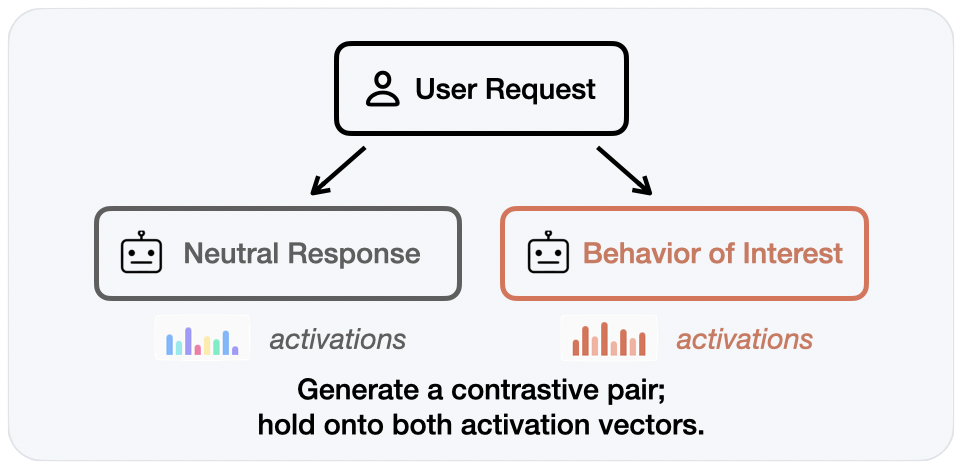
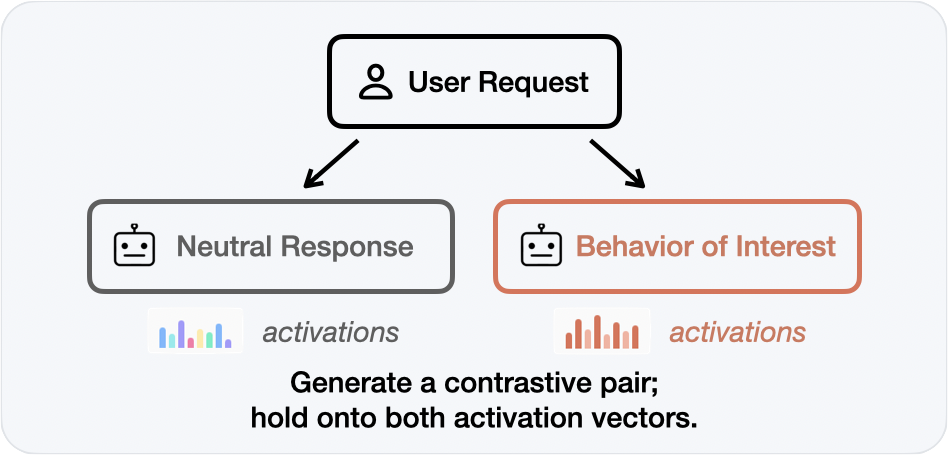
Replace hero figure with responsive 2x2 grid of cropped cards
Break the single hero.png into four cards (left/right x top/bottom),
each wrapped in its own HTML element with native row/column labels.

- Crop the four sub-figure PNGs to their content bounding box, removing
  the residual transparent margins around each card.
- Apply HTML border-radius (with overflow clip + matching fill) on each
  card so corners are clean regardless of the figures' baked-in radius.
- Lay out as a CSS grid: "Data Generation" / "Steering Vector
  Construction" row labels on the left, "Contrastive Feature Extraction"
  / "Cascading Linear Feature Extraction (Ours)" column labels below.
- Add a subtle hover interaction (lift + slight scale + shadow), with a
  prefers-reduced-motion fallback, and responsive sizing for small screens.

Claude-Session: https://claude.ai/code/session_01VGCoeGnHzNdtmMNr4mTU7F

diff --git a/index.html b/index.html
@@ -109,8 +109,102 @@
 
     <div class="container blog extra-large gray">
 
-        <div style="border: 1.5px solid #dfe6e9; border-radius: 10px; overflow: hidden; padding: 18px; background: #fff;">
-            <img src="assets/figures/hero.png" style="display: block; padding: 0 !important;">
+        <style>
+            .clif-figure {
+                font-family: 'Helvetica Neue', 'Helvetica', Arial, sans-serif !important;
+                border: 1.5px solid #dfe6e9;
+                border-radius: 14px;
+                padding: 22px;
+                background: #fff;
+            }
+            .clif-figure * { box-sizing: border-box; }
+
+            .clif-grid {
+                display: grid;
+                grid-template-columns: minmax(0, auto) 1fr 1fr;
+                grid-template-rows: auto auto auto;
+                column-gap: 18px;
+                row-gap: 16px;
+                align-items: center;
+            }
+
+            /* Row labels (left gutter) */
+            .clif-rowlabel {
+                font-weight: 700 !important;
+                font-size: clamp(13px, 1.5vw, 18px) !important;
+                line-height: 1.25 !important;
+                color: #2d3436 !important;
+                text-align: right;
+                max-width: 9.5em;
+                justify-self: end;
+                padding: 0 !important;
+            }
+
+            /* Column labels (bottom) */
+            .clif-collabel {
+                font-weight: 700 !important;
+                font-size: clamp(13px, 1.5vw, 18px) !important;
+                line-height: 1.25 !important;
+                color: #2d3436 !important;
+                text-align: center;
+                padding: 2px 4px 0 !important;
+            }
+            .clif-collabel .clif-ours { color: #b85c41; }
+
+            /* Figure cards */
+            .clif-cell {
+                position: relative;
+                border-radius: 14px;
+                overflow: hidden;
+                box-shadow: inset 0 0 0 1.5px #dfe6e9, 0 2px 8px rgba(45, 52, 54, 0.06);
+                transition: transform .28s cubic-bezier(.2, .7, .2, 1), box-shadow .28s ease;
+                will-change: transform;
+            }
+            .clif-cell.clif-left  { background: #F5F7FA; }
+            .clif-cell.clif-right { background: #F4F8F4; }
+            .clif-cell:hover {
+                transform: translateY(-5px) scale(1.025);
+                box-shadow: inset 0 0 0 1.5px #cfd8dc, 0 16px 34px rgba(45, 52, 54, 0.16);
+                z-index: 3;
+            }
+            .clif-cell img {
+                display: block;
+                width: 100%;
+                height: auto;
+                margin: 0 !important;
+                padding: 0 !important;
+            }
+
+            @media screen and (max-width: 600px) {
+                .clif-figure { padding: 14px; }
+                .clif-grid { column-gap: 10px; row-gap: 10px; }
+                .clif-rowlabel { max-width: 6.5em; }
+                .clif-cell, .clif-figure { border-radius: 10px; }
+            }
+
+            @media (prefers-reduced-motion: reduce) {
+                .clif-cell { transition: box-shadow .2s ease; }
+                .clif-cell:hover { transform: none; }
+            }
+        </style>
+
+        <div class="clif-figure">
+            <div class="clif-grid">
+                <!-- Row 1 — Data Generation -->
+                <div class="clif-rowlabel">Data Generation</div>
+                <div class="clif-cell clif-left"><img src="assets/figures/left-top.png" alt="Contrastive feature extraction: data generation"></div>
+                <div class="clif-cell clif-right"><img src="assets/figures/right-top.png" alt="Cascading linear feature extraction: data generation"></div>
+
+                <!-- Row 2 — Steering Vector Construction -->
+                <div class="clif-rowlabel">Steering Vector Construction</div>
+                <div class="clif-cell clif-left"><img src="assets/figures/left-bottom.png" alt="Contrastive feature extraction: steering vector construction"></div>
+                <div class="clif-cell clif-right"><img src="assets/figures/right-bottom.png" alt="Cascading linear feature extraction: steering vector construction"></div>
+
+                <!-- Row 3 — Column labels -->
+                <div aria-hidden="true"></div>
+                <div class="clif-collabel">Contrastive Feature Extraction</div>
+                <div class="clif-collabel">Cascading Linear Feature Extraction <span class="clif-ours">(Ours)</span></div>
+            </div>
         </div>
         <p class="caption">
             <b>Cascading Linear Feature Extraction.</b> (Left) Contrastive feature extraction compares neutral and behavior-exhibiting responses to compute a single steering vector from their activation differences. (Right) Our cascading approach iteratively regenerates responses from a neutral starting point towards and away from the target behavior. By identifying features that exhibit monotonic cascading effects across regenerations (green trajectory), we extract more robust and interpretable steering vectors.
